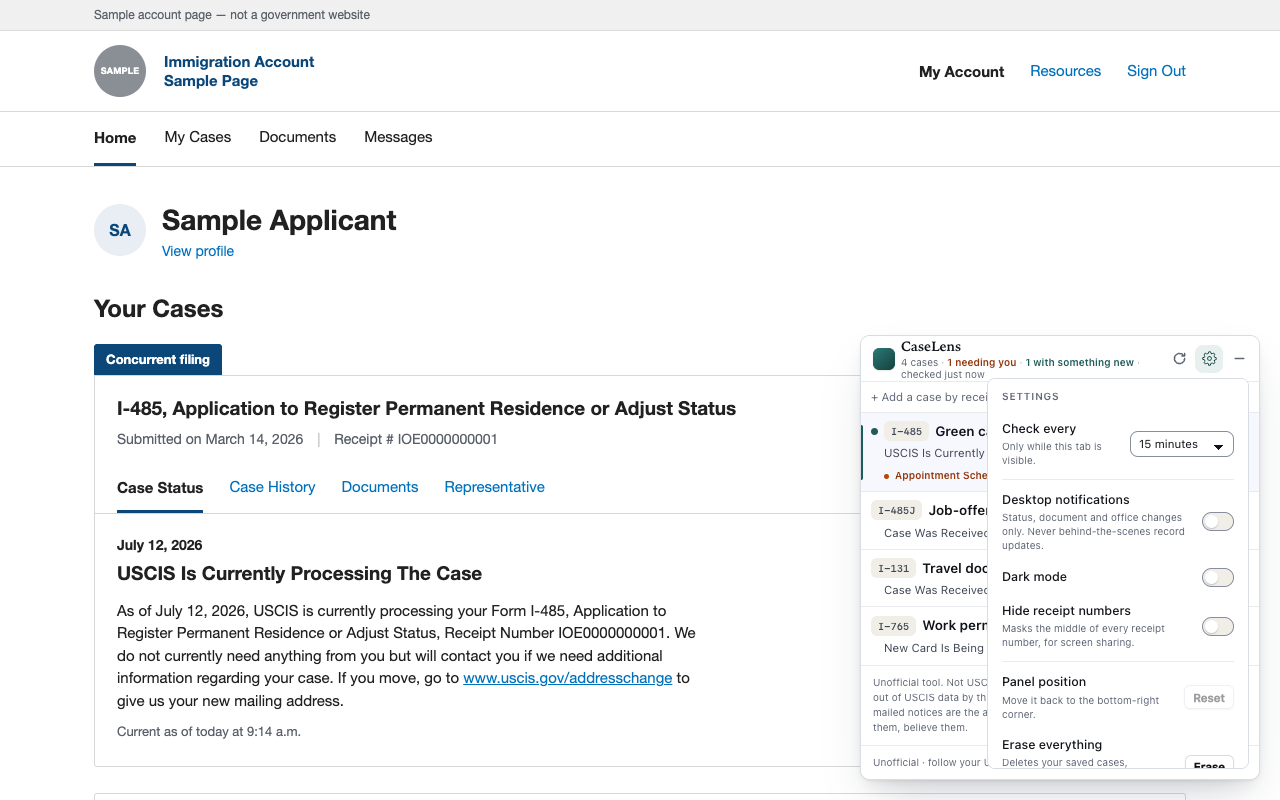
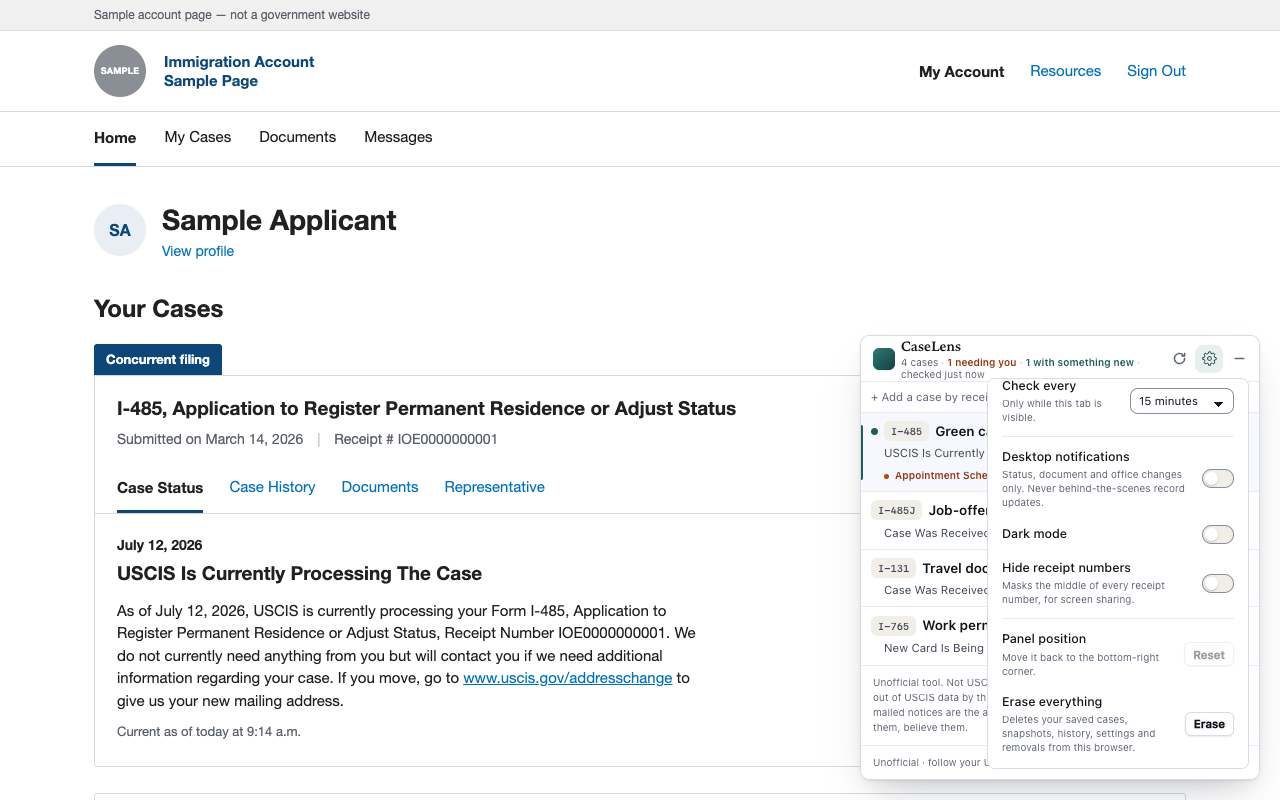
Scroll the settings popover so Erase everything is not clipped
The privacy shot exists to show the control that clears stored case data, and
the button was cut off by the popover's own scroll. Nothing else in the frame
makes that argument, so a clipped button loses the shot.

diff --git a/scripts/store-screenshots.js b/scripts/store-screenshots.js
@@ -61,6 +61,12 @@ function scrollTo(px) {
 var OPEN_SETTINGS =
   "(function(){var g=document.querySelector('[data-uscistr-settings-toggle]'); if(g)g.click();})()";
 
+// The popover is taller than the panel and scrolls. "Erase everything" sits at
+// the bottom, which is the one control this shot exists to show, so scroll it
+// fully into frame rather than shipping it clipped.
+var SETTINGS_TO_ERASE =
+  "(function(){var p=document.querySelector('.uscistr-popover'); if(p)p.scrollTop=p.scrollHeight;})()";
+
 // Order is the argument, not a gallery. Shot 1 carries most of the install
 // decision and store carousels rarely get scrolled past shot 3, so the two
 // things my.uscis.gov does not show sit at 2 and 3. The set ends on the privacy
@@ -92,7 +98,7 @@ var SHOTS = [
   {
     name: '05-privacy',
     caption: 'Stored in this browser, and erasable from Settings',
-    steps: [DISMISS_INTRO, OPEN_SETTINGS]
+    steps: [DISMISS_INTRO, OPEN_SETTINGS, SETTINGS_TO_ERASE]
   }
 ];
 

diff --git a/docs/PUBLISHING.md b/docs/PUBLISHING.md
@@ -384,6 +384,15 @@ Cover four things, in this order:
 4. **What happens to the data**, plus the Chrome/Firefox disclosure difference
    above, and `node scripts/build.js --check` for byte-identity.
 
+### Expected `web-ext lint` output
+
+`npx web-ext lint --source-dir=extensions/firefox` reports **0 errors, 2
+warnings**, both the same cause: `strict_min_version` is 109, which predates
+`data_collection_permissions` (Firefox 140 desktop, 142 Android). Leave it.
+The key is ignored on older versions and the extension needs nothing to run
+there, so raising the floor would drop working installs to silence a notice.
+AMO does not reject on warnings.
+
 ## AMO source-code submission
 
 `scripts/build.js` generates one file from several, which is literally what
